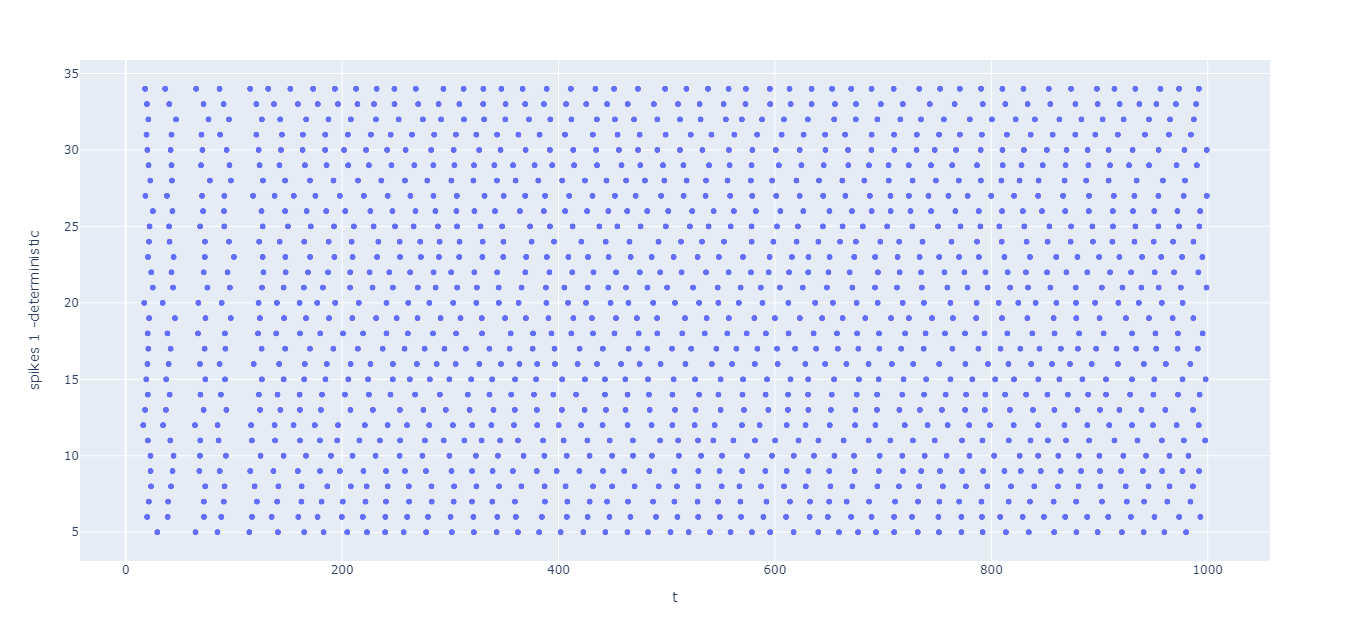
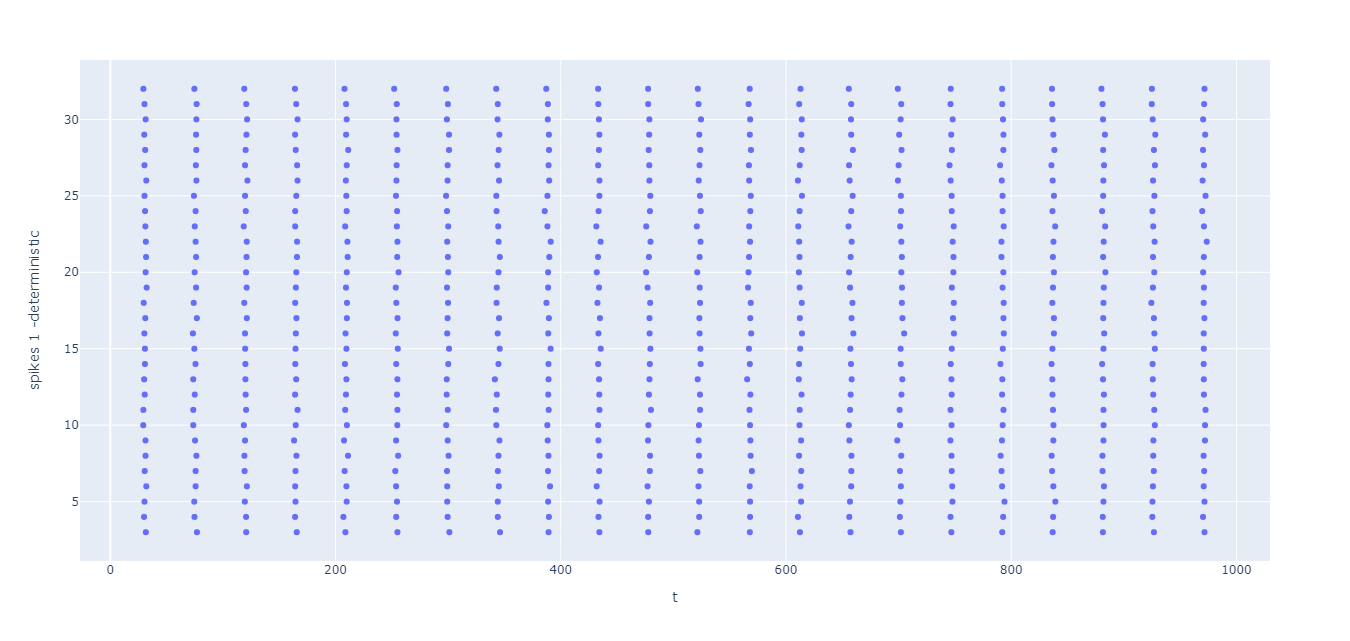
fixed high rates

diff --git a/scripts/first_network/deterministic.py b/scripts/first_network/deterministic.py
@@ -10,11 +10,9 @@ exc_syn_dic = {"weight": 20.0}
 inh_syn_dic = {"weight": -30.0}
 
 #inputs
-input_dict = {"weight": 25.0}
+input_dict = {"weight": 5.0}
 noise_exc1 = nest.Create("poisson_generator", params={"rate": 300.0})
 noise_exc2 = nest.Create("poisson_generator", params={"rate": 300.0})
-noise_2_exc1 = nest.Create("poisson_generator", params={"rate": 300.0})
-noise_2_exc2 = nest.Create("poisson_generator", params={"rate": 300.0})
 
 #populations
 excNeuronPop1 = nest.Create("exc_iaf_psc_alpha", 30) 
@@ -25,8 +23,6 @@ inhNeuronPop = nest.Create("inh_iaf_psc_alpha", 15)
 #connections
 nest.Connect(noise_exc1, excNeuronPop1, "all_to_all", syn_spec= input_dict)
 nest.Connect(noise_exc2, excNeuronPop2, "all_to_all", syn_spec= input_dict)
-nest.Connect(noise_2_exc1, excNeuronPop1, "all_to_all", syn_spec= input_dict)
-nest.Connect(noise_2_exc2, excNeuronPop2, "all_to_all", syn_spec= input_dict)
 
 nest.Connect(excNeuronPop1, inhNeuronPop, syn_spec= exc_syn_dic)
 nest.Connect(excNeuronPop2, inhNeuronPop, syn_spec= exc_syn_dic)
